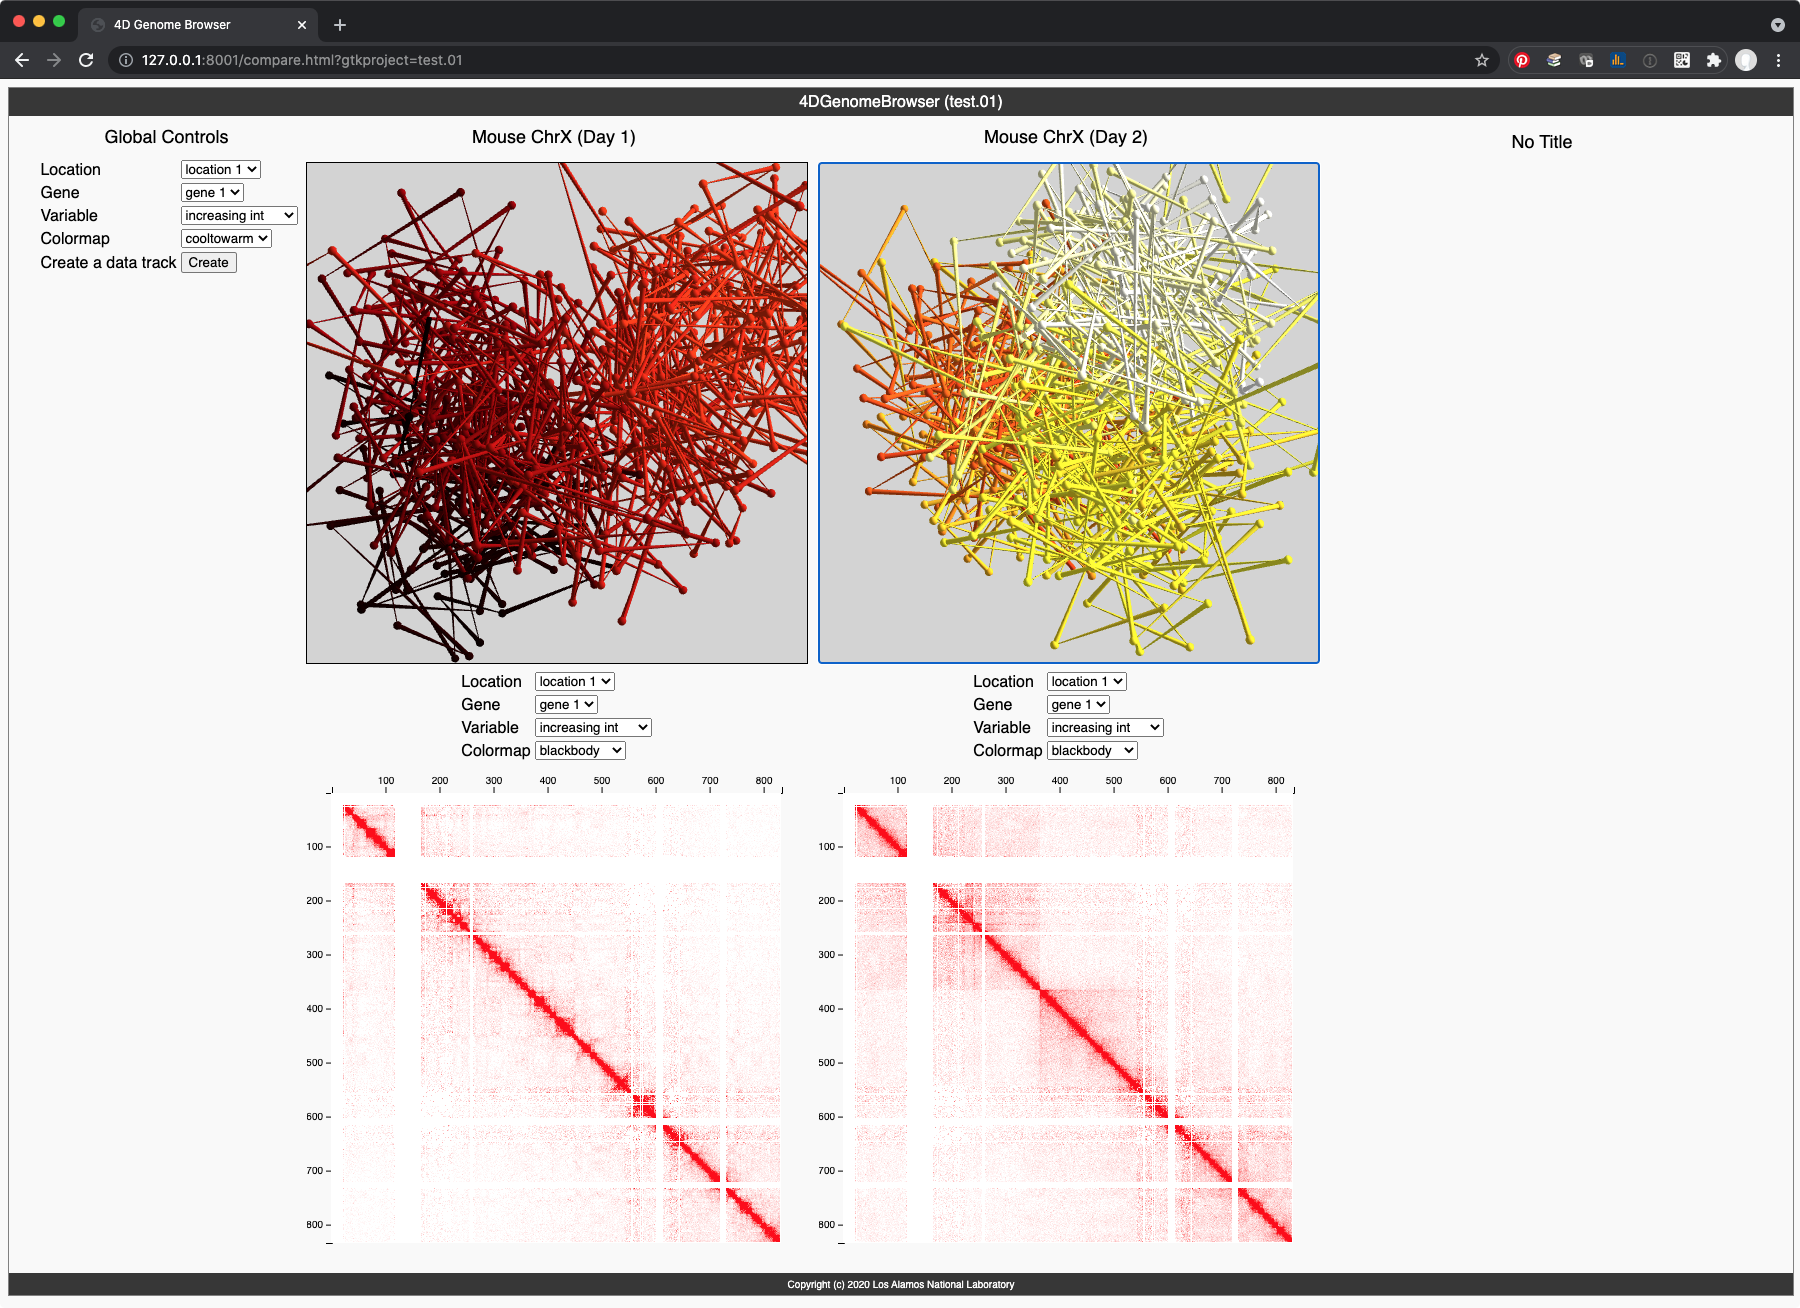
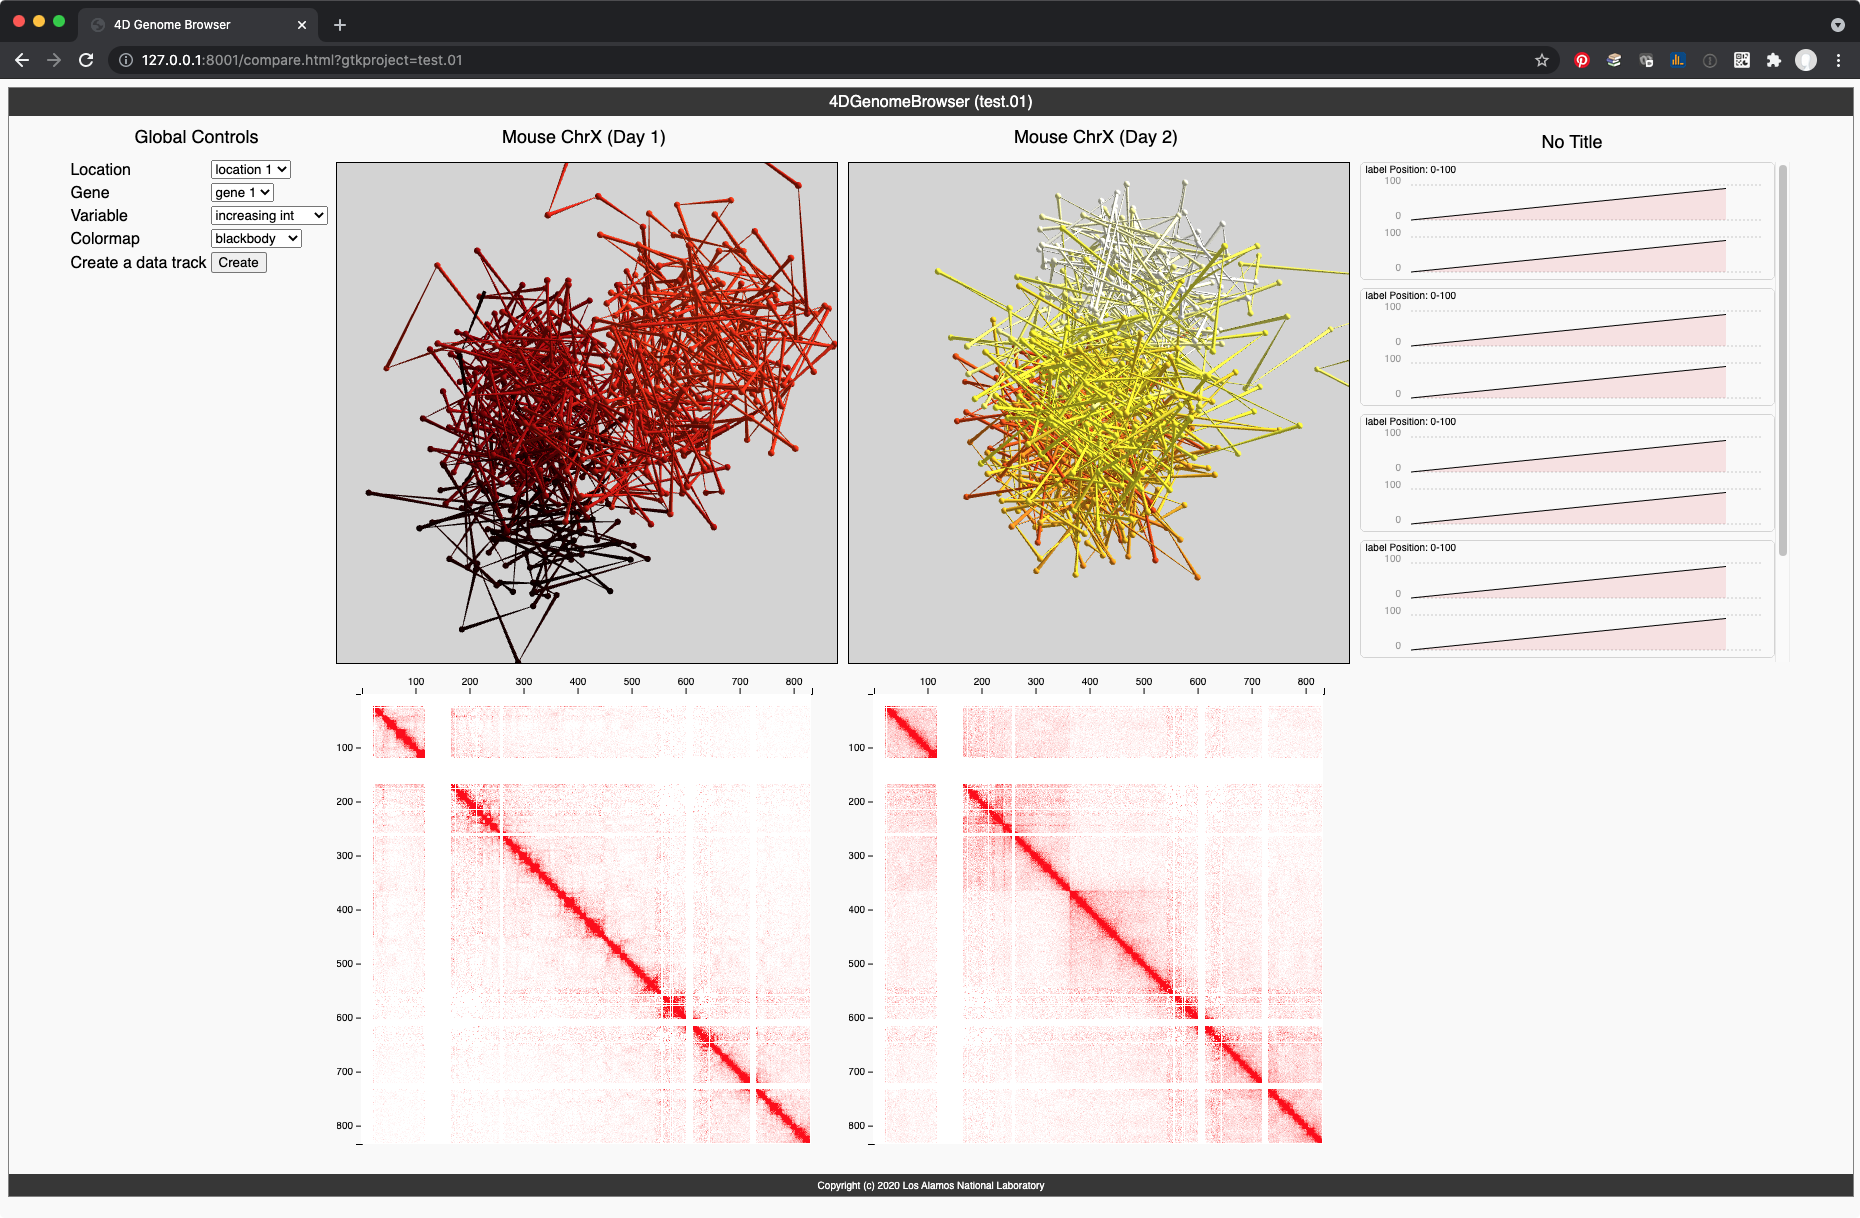
updating compare

Changed region(s): [[0.0, 0.0, 1.0, 0.9984], [0.9333, 0.1248, 0.9644, 0.468]]

diff --git a/src/gtk/js/compare.js b/src/gtk/js/compare.js
@@ -29,8 +29,17 @@ LIABILITY, OR TORT (INCLUDING NEGLIGENCE OR OTHERWISE) ARISING IN ANY WAY OUT OF
 THE USE OF THIS SOFTWARE, EVEN IF ADVISED OF THE POSSIBILITY OF SUCH DAMAGE.
 */
 
-var GTKPanels = [];
-var controls;
+var ThePanels = [];
+var TheControls;
+var TheChartPanel;
+
+function addTrackCallback() {
+    alert("track clicked")
+}
+
+function createTrack ( data ) {
+    TheCharts.addTracks( "label", addTrackCallback, [0, 1], "chrX", 0, 100);
+}
 
 function linkCameras(a, b) {
     // link the cameras
@@ -48,14 +57,14 @@ function linkCameras(a, b) {
 
 function setVariable( id ) {
     TheGTKClient.get_array( (response) => {
-            GTKPanels[0].geometrycanvas.geometry.setLUTParameters( response['data']['min'], response['data']['max'] ); 
-            GTKPanels[0].geometrycanvas.geometry.colorBy( response['data']['values']);
-            GTKPanels[0].geometrycanvas.render();
+            ThePanels[0].geometrycanvas.geometry.setLUTParameters( response['data']['min'], response['data']['max'] ); 
+            ThePanels[0].geometrycanvas.geometry.colorBy( response['data']['values']);
+            ThePanels[0].geometrycanvas.render();
         }, id, 0); 
     TheGTKClient.get_array( (response) => {
-            GTKPanels[1].geometrycanvas.geometry.setLUTParameters( response['data']['min'], response['data']['max'] ); 
-            GTKPanels[1].geometrycanvas.geometry.colorBy( response['data']['values']);
-            GTKPanels[1].geometrycanvas.render();
+            ThePanels[1].geometrycanvas.geometry.setLUTParameters( response['data']['min'], response['data']['max'] ); 
+            ThePanels[1].geometrycanvas.geometry.colorBy( response['data']['values']);
+            ThePanels[1].geometrycanvas.render();
         }, id, 1); 
 }
 
@@ -64,34 +73,35 @@ function variableChanged(e) {
 }
 
 function colormapChanged(e) {
-    GTKPanels[0].geometrycanvas.geometry.setLUT(e);
-    GTKPanels[1].geometrycanvas.geometry.setLUT(e);
-    setVariable(controls.getCurrentVariableID());
+    ThePanels[0].geometrycanvas.geometry.setLUT(e);
+    ThePanels[1].geometrycanvas.geometry.setLUT(e);
+    setVariable(TheControls.getCurrentVariableID());
 }
 
 function main( project ) {
     var dset = project.getDatasets(); 
 
     // control panel
-    controls = new GTKControlPanel( project, "controlpanel" );
+    TheControls = new GTKControlPanel( project, "controlpanel" );
 
     // views
     var dataset = new GTKDataset(dset[0]);
-    GTKPanels.push(new GTKViewerPanel( project, dataset, "leftpanel" ));
+    ThePanels.push(new GTKViewerPanel( project, dataset, "leftpanel" ));
 
     var dataset = new GTKDataset(dset[1]);
-    GTKPanels.push(new GTKViewerPanel( project, dataset, "rightpanel" ));
+    ThePanels.push(new GTKViewerPanel( project, dataset, "rightpanel" ));
 
     // attribute charts
-    GTKCharts = new GTKChartPanel( "detailpanel" );
+    TheCharts = new GTKChartPanel( "chartpanel" );
 
 
     // connections
         // camera
-    linkCameras(GTKPanels[0].geometrycanvas, GTKPanels[1].geometrycanvas);
+    linkCameras(ThePanels[0].geometrycanvas, ThePanels[1].geometrycanvas);
         // events
-    controls.addEventListener( "variableChanged", variableChanged );
-    controls.addEventListener( "colormapChanged", colormapChanged );
+    TheControls.addEventListener( "variableChanged", variableChanged );
+    TheControls.addEventListener( "colormapChanged", colormapChanged );
+    TheControls.addEventListener( "createTrack", createTrack );
 }
 
 //

diff --git a/src/index.html b/src/index.html
@@ -18,44 +18,70 @@
 </div>
 
 <h2>test.00</h2>
-<ul>
-    <li><a href="http://127.0.0.1:8000/canvas.html?gtkproject=test.00">canvas</a></li>
-    <li><a href="http://127.0.0.1:8000/compare.html?gtkproject=test.00">compare</a></li>
-    <li><a href="http://127.0.0.1:8000/snapshot.html?gtkproject=test.00">snapshot</a></li>
-    <li><a href="http://127.0.0.1:8000/chart.html?gtkproject=test.00">chart</a></li>
-</ul>
+<table width="500px">
+    <tr>
+        <td style="text-align: center;">compare</td>
+        <td style="text-align: center;">canvas</td>
+        <td style="text-align: center;">chart</td>
+        <td style="text-align: center;">snapshot</td>
+    </tr>
+    <tr>
+        <td>
+        <a href="http://127.0.0.1:8000/compare.html?gtkproject=test.00">
+            <img class="gtklinkimage" height="100px" src="img/index/test.00.compare.png"></a>
+        </a>
+        </td>
+
+        <td>
+        <a href="http://127.0.0.1:8000/canvas.html?gtkproject=test.00">
+            <img class="gtklinkimage" height="100px" src="img/index/test.00.canvas.png"></a>
+        </a>
+        </td>
+
+        <td>
+        <a href="http://127.0.0.1:8000/chart.html?gtkproject=test.00">
+            <img class="gtklinkimage" height="100px" src="img/index/test.00.chart.png"></a>
+        </a>
+        </td>
+
+        <td>
+        <a href="http://127.0.0.1:8000/snapshot.html?gtkproject=test.00">
+            <img class="gtklinkimage" height="100px" src="img/index/test.00.snapshot.png"></a>
+        </a>
+        </td>
+    </tr>
+</table>
 
 <h2>test.01</h2>
 <table width="500px">
     <tr>
-        <td>canvas</td>
-        <td>
-        <a href="http://127.0.0.1:8001/canvas.html?gtkproject=test.01">
-            <img class="gtklinkimage" height="100px" src="img/index/test.01.canvas.png"></a>
-        </a>
-        </td>
+        <td style="text-align: center;">compare</td>
+        <td style="text-align: center;">canvas</td>
+        <td style="text-align: center;">chart</td>
+        <td style="text-align: center;">snapshot</td>
     </tr>
     <tr>
-        <td>compare</td>
         <td>
         <a href="http://127.0.0.1:8001/compare.html?gtkproject=test.01">
             <img class="gtklinkimage" height="100px" src="img/index/test.01.compare.png"></a>
         </a>
         </td>
-    </tr>
-    <tr>
-        <td>snapshot</td>
+
         <td>
-        <a href="http://127.0.0.1:8001/snapshot.html?gtkproject=test.01">
-            <img class="gtklinkimage" height="100px" src="img/index/test.01.snapshot.png"></a>
+        <a href="http://127.0.0.1:8001/canvas.html?gtkproject=test.01">
+            <img class="gtklinkimage" height="100px" src="img/index/test.01.canvas.png"></a>
         </a>
         </td>
-    </tr>
-    <tr>
-        <td>chart</td>
+
         <td>
         <a href="http://127.0.0.1:8001/chart.html?gtkproject=test.01">
             <img class="gtklinkimage" height="100px" src="img/index/test.01.chart.png"></a>
+        </a>
+        </td>
+
+        <td>
+        <a href="http://127.0.0.1:8001/snapshot.html?gtkproject=test.01">
+            <img class="gtklinkimage" height="100px" src="img/index/test.01.snapshot.png"></a>
         </a>
         </td>
     </tr>

diff --git a/src/gtk/js/GTKChartPanel.js b/src/gtk/js/GTKChartPanel.js
@@ -29,21 +29,24 @@ LIABILITY, OR TORT (INCLUDING NEGLIGENCE OR OTHERWISE) ARISING IN ANY WAY OUT OF
 THE USE OF THIS SOFTWARE, EVEN IF ADVISED OF THE POSSIBILITY OF SUCH DAMAGE.
 */
 
+
+var GTKChartPanelCurID = 0;
+
 class GTKChartPanel {
     constructor(parentID) {
         // container
         this.container = document.createElement("div"); 
-        this.container.className = "gtkchartlist";
+        this.container.className = "gtkchartpanel";
 
         // title
         this.title = document.createElement("div");
-        this.title.className = "gtkchartlisttitle";
+        this.title.className = "gtkchartpaneltitle";
         this.container.appendChild(this.title);
-        this.setTitle("No Title")
+        this.setTitle("Tracks")
 
         // charts
         this.charts = document.createElement("div");
-        this.charts.className = "gtkchartlistcharts";
+        this.charts.className = "gtkchartpanelcharts";
         this.container.appendChild(this.charts);
 
         var parent = document.getElementById(parentID);
@@ -74,31 +77,40 @@ class GTKChartPanel {
         chart.loadData(state, chrom, start, end);
     }
 
-    addPair(label, callback, states, chrom, start, end) {
+    generateCurIDName () {
+        GTKChartPanelCurID += 1;
+        return "gtkchartpanelpaircontainer_" + GTKChartPanelCurID;
+    }
+
+    addTracks(label, callback, datasets, chrom, start, end) {
         // pair container
         var pair = document.createElement("div");
-        pair.className = "gtkchartlistpaircontainer";
+        pair.className = "gtkchartpanelpaircontainer";
+        pair.id = this.generateCurIDName(); 
         this.charts.insertBefore(pair, this.charts.firstChild);
         pair.innerHTML = `${label} Position: ${start}-${end}`;
         pair.callbackdata = pair.innerHTML;
         var min =  1000000.0;
         var max = -1000000.0;
         var charts = [];
-        for (var i=0;i < states.length; i++) {
-            charts.push(new GTKTrackChart(document, pair)); 
-            charts[i].loadData(states[i], chrom, start, end);
-            var curMin = charts[i].getMin();
-            var curMax = charts[i].getMax();
-            if (curMin < min) {
-                min = curMin; 
-            }
-            if (curMax > max) {
-                max = curMax; 
-            }
+
+        // make a set of dummy values
+        var numbins = 10;
+        var incr    = Math.trunc((end-start)/numbins);
+        var labels  = [];
+        var values  = [];
+        for (var i = 0; i < numbins; i++) {
+            labels.push(start + i*incr);
+            values.push(start + i*incr);
         }
-        for (var i=0;i < states.length; i++) {
+        min = start;
+        max = end;
+
+        // create a chart for each dataset
+        for (var i=0;i < datasets.length; i++) {
+            charts.push(new GTKTrackChart(pair.id)); 
             charts[i].setYValLimits( min, max );
-            charts[i].makeChart();
+            charts[i].make( labels, values );
         }
 
         pair.addEventListener("click", function(){callback(this);} );

diff --git a/src/gtk/js/chartpanel.js b/src/gtk/js/chartpanel.js
@@ -1,0 +1,59 @@
+/*
+Copyright (c) 2021, Triad National Security, LLC. All rights reserved.
+  
+Redistribution and use in source and binary forms, with or
+without modification, are permitted provided that the following conditions
+are met:
+
+    1. Redistributions of source code must retain the above copyright notice, 
+       this list of conditions and the following disclaimer.
+
+    2. Redistributions in binary form must reproduce the above copyright
+       notice, this list of conditions and the following disclaimer in the
+       documentation and/or other materials provided with the distribution.
+
+    3. Neither the name of Los Alamos National Security, LLC, Los Alamos
+       National Laboratory, LANL, the U.S. Government, nor the names of its
+       contributors may be used to endorse or promote products derived from 
+       this software without specific prior written permission.
+    
+THIS SOFTWARE IS PROVIDED BY THE COPYRIGHT HOLDERS CONTRIBUTORS "AS IS" AND 
+ANY EXPRESS OR IMPLIED WARRANTIES, INCLUDING, BUT NOT LIMITED TO, THE IMPLIED 
+WARRANTIES OF MERCHANTABILITY AND FITNESS FOR A PARTICULAR PURPOSE ARE 
+DISCLAIMED. IN NO EVENT SHALL LOS ALAMOS NATIONAL SECURITY, LLC OR CONTRIBUTORS 
+BE LIABLE FOR ANY DIRECT, INDIRECT, INCIDENTAL, SPECIAL, EXEMPLARY, OR 
+CONSEQUENTIAL DAMAGES (INCLUDING, BUT NOT LIMITED TO, PROCUREMENT OF SUBSTITUTE 
+GOODS OR SERVICES; LOSS OF USE, DATA, OR PROFITS; OR BUSINESS INTERRUPTION) 
+HOWEVER CAUSED AND ON ANY THEORY OF LIABILITY, WHETHER IN CONTRACT, STRICT 
+LIABILITY, OR TORT (INCLUDING NEGLIGENCE OR OTHERWISE) ARISING IN ANY WAY OUT OF
+THE USE OF THIS SOFTWARE, EVEN IF ADVISED OF THE POSSIBILITY OF SUCH DAMAGE.
+*/
+
+var TheCharts;
+
+function addTrackCallback() {
+    alert("track clicked");
+}
+
+function createTrack ( data ) {
+    TheCharts.addTracks( "label", addTrackCallback, [0, 1], "chrX", 0, 100);
+}
+
+function main( project ) {
+    var dset = project.getDatasets(); 
+
+    // panels 
+    var controls = new GTKControlPanel( project, "controlpanel" );
+    TheCharts   = new GTKChartPanel( "chartpanel" );
+
+    controls.addEventListener( "createTrack", createTrack ); 
+}
+
+//
+// create the project object and load data 
+//
+TheGTKProject = new GTKProject( GTKProjectName );
+TheGTKClient  = new GTKClient( "http://" + window.location.hostname, window.location.port);
+var view;
+
+main( TheGTKProject );

diff --git a/src/gtk/css/gtk.css b/src/gtk/css/gtk.css
@@ -71,7 +71,7 @@ div.gtk { padding: 5px;
     justify-content: flex-start;
 }
 
-.gtkgeometrycontainer, .gtkglobalentrycontainer, .gtkchartlist {
+.gtkgeometrycontainer, .gtkglobalentrycontainer, .gtkchartpanel {
     order: 1;
     padding-top: 5px;
     padding-right: 5px;
@@ -93,13 +93,13 @@ div.gtk { padding: 5px;
     left: 0;
 }
 
-.gtkchartlistcharts {
+.gtkchartpanelcharts {
     width: 430px;
     height: 500px;
     overflow-y: auto;
 }
 
-.gtkchartlistpaircontainer {
+.gtkchartpanelpaircontainer {
     vertical-align: top;
     font-size: 10px;
     text-align: left;
@@ -150,7 +150,7 @@ div.gtk { padding: 5px;
     font-size: 12px;
 }
 
-.gtktitle, .gtkgeometrytitle, .gtkglobalentrytitle, .gtkchartlisttitle {
+.gtktitle, .gtkgeometrytitle, .gtkglobalentrytitle, .gtkchartpaneltitle {
     padding-top:    10px;
     padding-right:  5px;
     padding-bottom: 10px;

diff --git a/src/chartpanel.html b/src/chartpanel.html
@@ -61,20 +61,13 @@
 </script>
 
 <script src="gtk/js/GTKClient.js"></script>
-<script src="gtk/js/GTKProject.js"></script>
-<script src="gtk/js/GTKSegment.js"></script>
 <script src="gtk/js/GTKArrowSegment.js"></script>
-<script src="gtk/js/GTKDataset.js"></script>
-<script src="gtk/js/GTKGeometry.js"></script>
-<script src="gtk/js/GTKGeometryCanvas.js"></script>
-<script src="gtk/js/GTKContactMap.js"></script>
-<script src="gtk/js/GTKContactMapCanvas.js"></script>
-<script src="gtk/js/GTKViewerPanel.js"></script>
+<script src="gtk/js/GTKProject.js"></script>
 <script src="gtk/js/GTKPublisher.js"></script>
 <script src="gtk/js/GTKControlPanel.js"></script>
 <script src="gtk/js/GTKTrackChart.js"></script>
 <script src="gtk/js/GTKChartPanel.js"></script>
-<script src="gtk/js/compare.js"></script>
+<script src="gtk/js/chartpanel.js"></script>
 
 </body>
 
